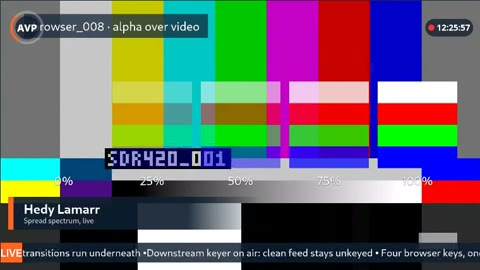
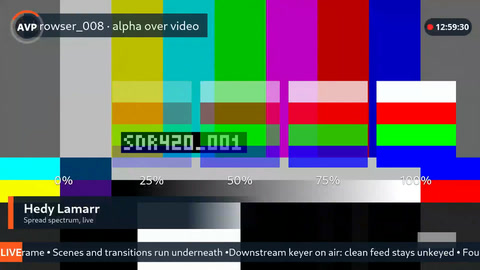
Replace browser capture with smooth instance-recorded mixer outputs

Changed region(s): [[0.0, 0.0, 1.0, 1.0]]

diff --git a/demos/mixer/docs/index.html b/demos/mixer/docs/index.html
@@ -25,16 +25,16 @@
       <div class="hero-aside"><p>Video, browser pages and raw feeds.<br>Preview it. Cut it. Put graphics on air.<br>All on a single NVIDIA L4.</p><div class="spec"><span>1920 × 1080</span><span>25 FPS</span><span>SDR</span></div></div>
     </section>
     <section class="demo" id="demo" aria-labelledby="demo-title">
-      <div class="demo-top"><h2 id="demo-title"><span class="signal red"></span> THE ACTUAL CONTROL SURFACE</h2><span class="capture-label">10 SECOND CAPTURE <span class="slash">/</span> 09 OCT 2026</span></div>
-      <div class="screen"><video id="reel" controls muted loop playsinline preload="metadata" poster="mixer-demo-poster.jpg" aria-label="Ten-second mixer demo: two viewers, direct cuts through varied scenes and all four downstream keys enabled" aria-describedby="recording-note"><source src="https://github.com/amagimedia/avplumber/releases/download/mixer-demo-media-2026-10/mixer-192-input-demo.mp4" type="video/mp4"><a href="https://github.com/amagimedia/avplumber/releases/download/mixer-demo-media-2026-10/mixer-192-input-demo.mp4">Download the mixer demo MP4</a>.</video></div>
+      <div class="demo-top"><h2 id="demo-title"><span class="signal red"></span> THE ACTUAL CONTROL SURFACE</h2><span class="capture-label">INSTANCE CAPTURE · 25 FPS <span class="slash">/</span> 09 OCT 2026</span></div>
+      <div class="screen"><video id="reel" controls muted loop playsinline preload="metadata" poster="mixer-demo-poster.jpg" aria-label="Ten-second mixer demo: two viewers, direct cuts through varied scenes and all four downstream keys enabled" aria-describedby="recording-note"><source src="https://github.com/amagimedia/avplumber/releases/download/mixer-demo-media-2026-10/mixer-192-input-demo-local.mp4" type="video/mp4"><a href="https://github.com/amagimedia/avplumber/releases/download/mixer-demo-media-2026-10/mixer-192-input-demo-local.mp4">Download the mixer demo MP4</a>.</video></div>
       <div class="demo-bottom"><div class="feed-labels"><span><i class="pvw"></i> PREVIEW + PROGRAM</span><span><i class="pgm"></i> DIRTY PROGRAM + 4 DSKs</span></div><button id="replay" type="button">Replay 10s <span aria-hidden="true">↻</span></button></div>
     </section>
-    <p class="recording-note" id="recording-note">Recorded from the running mixer, with generated test media and live browser graphics. Quick direct cuts. Two WebRTC viewers. No simulated controls or outputs. <a href="https://github.com/amagimedia/avplumber/releases/download/mixer-demo-media-2026-10/mixer-192-input-demo.mp4">Download MP4 ↓</a></p>
+    <p class="recording-note" id="recording-note">Recorded directly on the running instance before Internet transport, then replayed in the real UI with the captured state and cuts. Two outputs, four keys and a continuous 25 fps ticker. <a href="https://github.com/amagimedia/avplumber/releases/download/mixer-demo-media-2026-10/mixer-192-input-demo-local.mp4">Download UI demo ↓</a> · <a href="https://github.com/amagimedia/avplumber/releases/download/mixer-demo-media-2026-10/mixer-pgm-instance.mp4">Original full-size Program ↓</a></p>
     <section class="scene-section" aria-labelledby="scene-heading">
       <div class="section-label"><h2 id="scene-heading">A different scene. One cut.</h2><span>JUMP INTO THE RECORDING</span></div>
       <div class="scene-strip">
-        <button class="scene" type="button" data-seek="1"><img src="scene-random.jpg" alt="Layered video composition with downstream graphics" width="480" height="270" loading="lazy"><span><b>Mixed composition</b><small>01.0s <i aria-hidden="true">↗</i></small></span></button>
-        <button class="scene" type="button" data-seek="2.5"><img src="scene-grid.jpg" alt="Sixty-four source tiles in the program with graphics over the grid" width="480" height="270" loading="lazy"><span><b>64-source grid</b><small>02.5s <i aria-hidden="true">↗</i></small></span></button>
+        <button class="scene" type="button" data-seek="1.4"><img src="scene-random.jpg" alt="Layered video composition with downstream graphics" width="480" height="270" loading="lazy"><span><b>Mixed composition</b><small>01.4s <i aria-hidden="true">↗</i></small></span></button>
+        <button class="scene" type="button" data-seek="2.8"><img src="scene-grid.jpg" alt="Sixty-four source tiles in the program with graphics over the grid" width="480" height="270" loading="lazy"><span><b>64-source grid</b><small>02.8s <i aria-hidden="true">↗</i></small></span></button>
         <button class="scene" type="button" data-seek="4.3"><img src="scene-pip.jpg" alt="Picture-in-picture scene in the dirty program" width="480" height="270" loading="lazy"><span><b>Picture in picture</b><small>04.3s <i aria-hidden="true">↗</i></small></span></button>
         <button class="scene" type="button" data-seek="5.7"><img src="scene-browser.jpg" alt="Browser overlay scene with lower third, ticker and corner bugs" width="480" height="270" loading="lazy"><span><b>Browser + video</b><small>05.7s <i aria-hidden="true">↗</i></small></span></button>
       </div>
